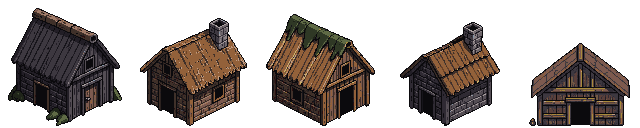
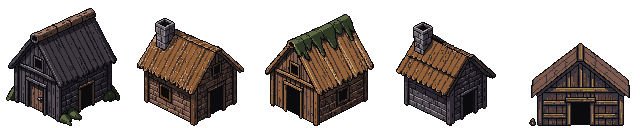
Village props: art review fixes
Huts mirrored so they are lit from the top-left, thatch and well stone darkened below the wanderer, stockade tiles end on whole logs with void-0 outlines.

diff --git a/art/drafts/props/assemble.py b/art/drafts/props/assemble.py
@@ -379,17 +379,19 @@ reliq_open = [
 # Village: four huts and a hall, a stall, wells and a firepit; the stockade is rebuilt log by log so its tiles join.
 THATCH = {"gilt-3": "bronze-2", "gilt-2": "bronze-1", "gilt-1": "leather-1", "gilt-0": "leather-0"}
 AWNING = {"blood-4": "blood-2", "blood-3": "blood-1", "blood-2": "blood-1"}
-huts = [knock_out(quadrant("village_huts_grid", q, 128), ("steel-3", "ash-4")) for q in range(4)]
-recolour(huts[1], THATCH)
+# Mirrored: the generator lit them from the top-right (§2).
+huts = [knock_out(quadrant("village_huts_grid", q, 128), ("steel-3", "ash-4")).transpose(Image.FLIP_LEFT_RIGHT) for q in range(4)]
+recolour(huts[1], {**THATCH, "bronze-2": "bronze-1"})
 hall = knock_out(quadrant("village_build_grid", 0, 128), ("ash-3",))
 stall = recolour(strip(knock_out(quadrant("village_build_grid", 1, 128), ("ash-3",)), ("ash-3",)), AWNING)
-wells = [drop_islands(strip(quadrant("village_wells_grid", q), ("rot-", "gilt-"), 36), 12) for q in range(3)]
+wells = [recolour(drop_islands(strip(quadrant("village_wells_grid", q), ("rot-", "gilt-"), 36), 12), STONE_DIM) for q in range(3)]
 firepit = quadrant("village_small_grid", 2)
 
 
 def stockade_logs(q, first, count):
     section = knock_out(quadrant("village_stockade_grid", q, 128), ("ash-",))
-    return [widened(section.crop((first + 14 * k, 0, first + 14 * k + 14, 128)), 16) for k in range(count)]
+    logs = [section.crop((first + 14 * k, 0, first + 14 * k + 14, 128)) for k in range(count)]
+    return [widened(log.crop((*log.getbbox()[:1], 0, log.getbbox()[2], 128)), 16) for log in logs]
 
 
 def widened(log, width):
@@ -427,7 +429,9 @@ logs = stockade_logs(0, 15, 7) + stockade_logs(1, 11, 7)
 torch = knock_out(quadrant("village_stockade_grid", 2, 128), ("ash-",))
 flame = torch.crop(torch.getbbox()).crop((0, 0, torch.getbbox()[2] - torch.getbbox()[0], 30))
 flame = flame.crop(flame.getbbox())
-palisade = [row_of(logs[0:4]), row_of(logs[3:7]), row_of(logs[7:11]), row_of(logs[9:13]), lone(logs[1]), lone(logs[9]), torch_on(row_of(logs[2:6]), flame)]
+palisade = [recolour(drop_orphans(tile), {"void-1": "void-0"}) for tile in (
+    row_of(logs[1:5]), row_of(logs[2:6]), row_of(logs[7:11]), row_of(logs[8:12]), lone(logs[1]), lone(logs[9]),
+    torch_on(row_of(logs[2:6]), flame))]
 GILT_TO_WOOD = {"gilt-0": "leather-0", "gilt-1": "leather-1", "gilt-2": "leather-2", "gilt-3": "leather-3"}
 SHEETS = {
     "weapons_stuck": stuck,
